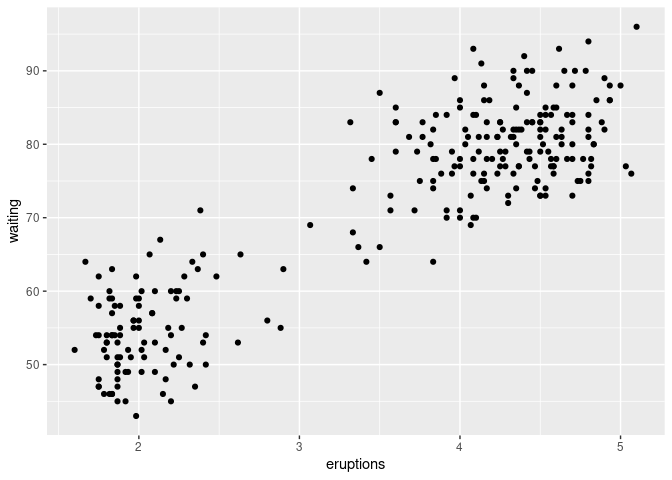
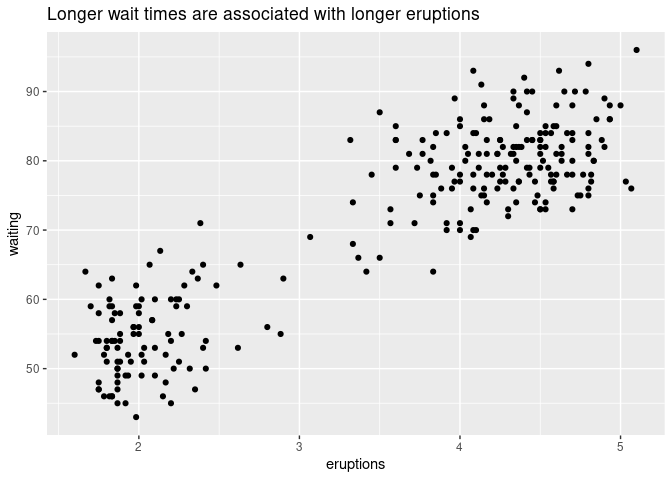
Degrade

diff --git a/07_patterns/README.md b/07_patterns/README.md
@@ -20,9 +20,9 @@ Models are a tool for extracting patterns out of data.
 
 If you spot a pattern, ask yourself:
 
--   Could this pattern be due to coincidence (i.e. random chance)?
-
 -   How can you describe the relationship implied by the pattern?
+
+-   Could this pattern be due to coincidence (i.e. random chance)?
 
 -   How strong is the relationship implied by the pattern?
 
@@ -33,11 +33,13 @@ If you spot a pattern, ask yourself:
 
 ### Warm up
 
-Longer `waiting` times are associated with longer `eruptions`
+-   `eruptions`: Eruption time in mins.
+-   `waiting` Waiting time to next eruption (in mins).
 
 ``` r
 ggplot(faithful, aes(eruptions, waiting)) + 
-  geom_point()
+  geom_point() +
+  labs(title = "Longer wait times are associated with longer eruptions")
 ```
 
 ![](README_files/figure-gfm/unnamed-chunk-2-1.png)<!-- -->

diff --git a/README.md b/README.md
@@ -133,8 +133,7 @@ Objectives:
 
 -   Extract a pattern with a model.
 
--   Explore the relationship between two variables after removing a
-    pattern.
+-   Explore the relationship again, after removing the pattern.
 
 ## Resources
 
